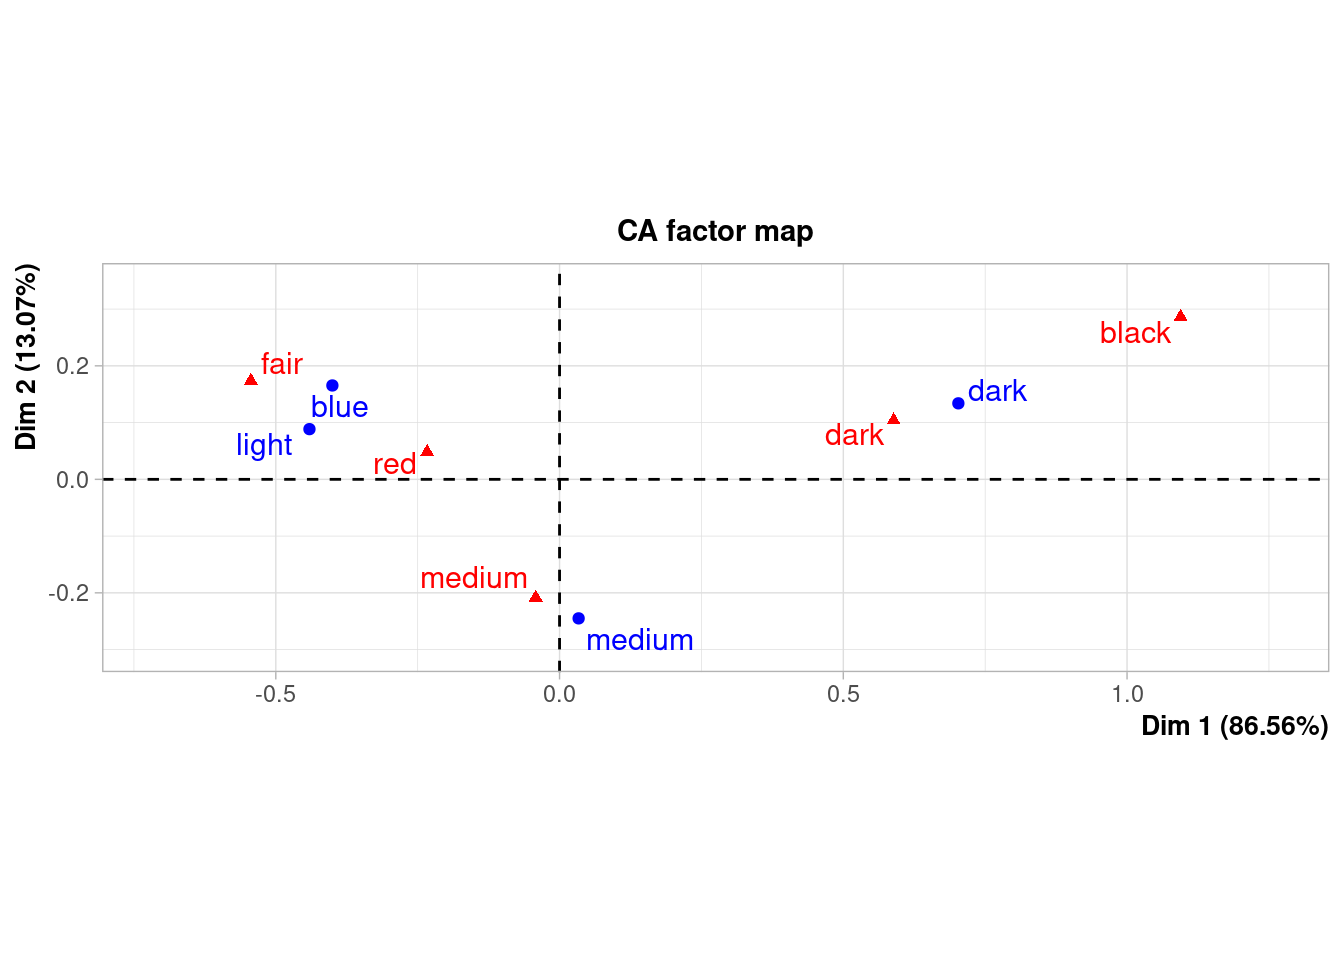
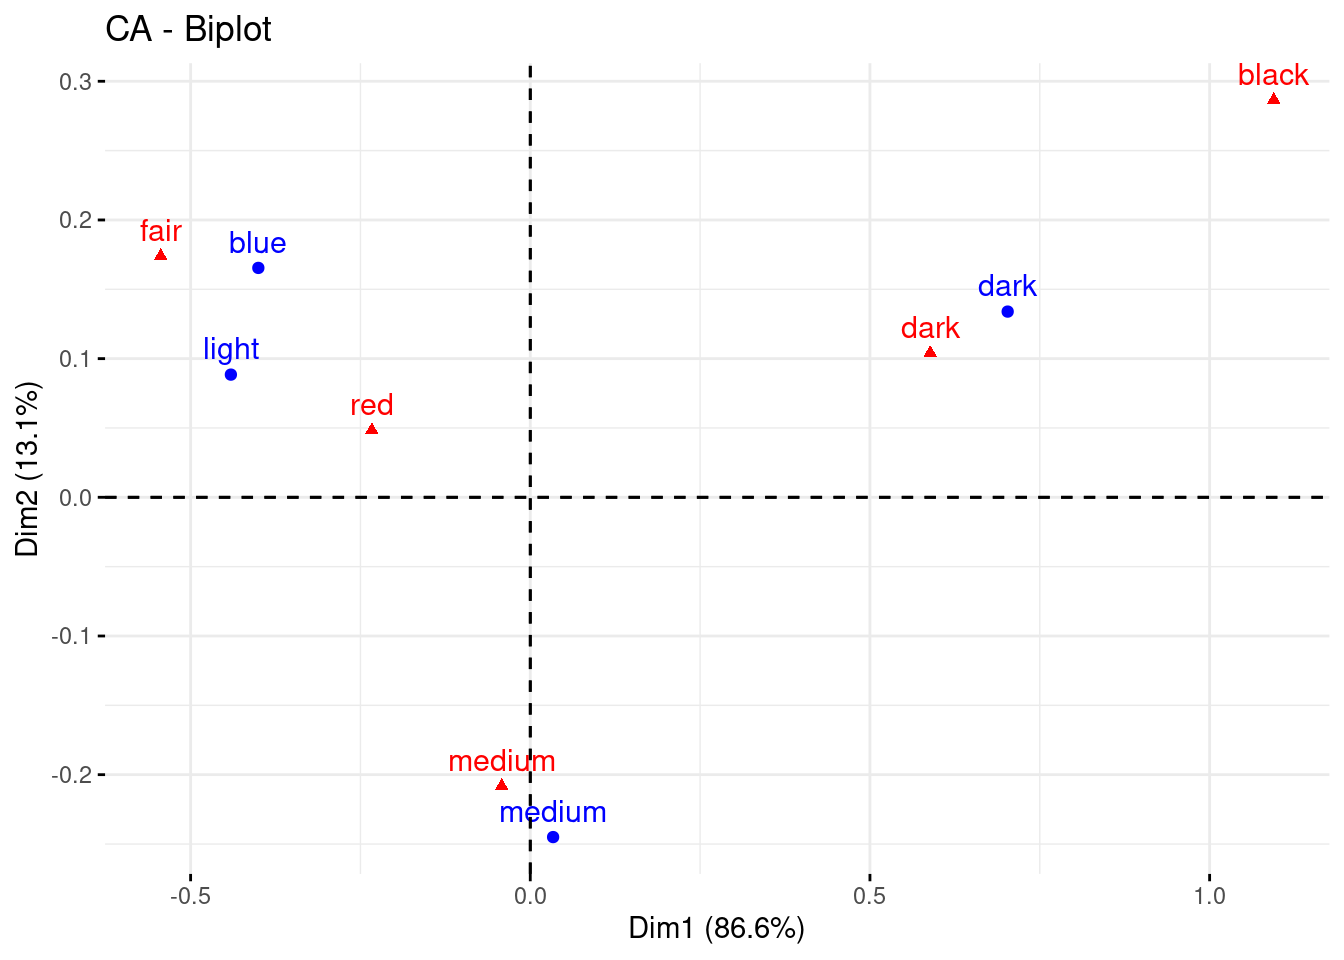
subir imagen

diff --git a/content/post/2020-10-21-nmf-ejemplillo/index.html b/content/post/2020-10-21-nmf-ejemplillo/index.html
@@ -37,27 +37,27 @@ a</code></pre>
 <pre class="r"><code>w &lt;-  res@fit@W
 h &lt;-  res@fit@H</code></pre>
 <pre class="r"><code>w </code></pre>
-<pre><code>##             [,1]       [,2]
-## blue   310.26776  23.582447
-## light  717.81051   2.959867
-## medium 481.12000 456.844871
-## dark    37.89063 783.673294</code></pre>
+<pre><code>##              [,1]        [,2]
+## blue     50.72778 301.8719197
+## light    47.60578 700.7685444
+## medium  646.81555 448.6993202
+## dark   1061.71640   0.8208889</code></pre>
 <pre class="r"><code>h</code></pre>
-<pre><code>##           fair        red    medium      dark       black
-## [1,] 0.8856602 0.14302714 0.9115746 0.2504273 0.003967138
-## [2,] 0.0669304 0.05108225 0.5735425 0.7920433 0.088285040</code></pre>
+<pre><code>##            fair        red    medium      dark        black
+## [1,] 0.08031272 0.04269796 0.4551752 0.5933899 6.530647e-02
+## [2,] 0.90202534 0.14382054 0.9052440 0.2195516 2.220446e-16</code></pre>
 <p>Reconstruimos a</p>
 <pre class="r"><code>w %*% h</code></pre>
 <pre><code>##             fair       red   medium      dark     black
 ## blue   276.37021  45.58136 296.3578  96.37782  3.312852
 ## light  635.93433 102.81758 656.0355 182.10365  3.108965
 ## medium 456.68567  92.14988 700.5967 482.32648 42.241237
-## dark    86.00979  45.45118 484.0100 630.19204 69.336946</code></pre>
+## dark    86.00979  45.45118 484.0100 630.19204 69.336945</code></pre>
 <p>Y si comparamos con a</p>
 <pre class="r"><code>a - (w %*% h)</code></pre>
 <pre><code>##              fair       red    medium       dark       black
 ## blue     49.62979 -7.581356 -55.35776  13.622177  -0.3128523
-## light    52.06567 13.182418 -72.03547   5.896346   0.8910349
+## light    52.06567 13.182418 -72.03547   5.896346   0.8910348
 ## medium -113.68567 -8.149881 208.40327 -70.326485 -16.2412371
 ## dark     11.99021  2.548819 -81.01004  50.807961  15.6630545</code></pre>
 <p>Bueno, la reconstrucción no es perfecta, pero bueno, no está tan mal.</p>
@@ -65,16 +65,16 @@ h &lt;-  res@fit@H</code></pre>
 <p>Normalicemos</p>
 <pre class="r"><code>w_hat &lt;- w / rowSums(w)
 w_hat</code></pre>
-<pre><code>##              [,1]        [,2]
-## blue   0.92936219 0.070637808
-## light  0.99589347 0.004106532
-## medium 0.51294032 0.487059679
-## dark   0.04612013 0.953879875</code></pre>
+<pre><code>##              [,1]         [,2]
+## blue   0.14386792 0.8561320849
+## light  0.06361226 0.9363877442
+## medium 0.59042151 0.4095784859
+## dark   0.99922743 0.0007725742</code></pre>
 <pre class="r"><code>h_hat &lt;-  h / rowSums(h)
 h_hat</code></pre>
-<pre><code>##            fair        red    medium      dark       black
-## [1,] 0.40355303 0.06517063 0.4153610 0.1141077 0.001807635
-## [2,] 0.04257975 0.03249748 0.3648759 0.5038817 0.056165131</code></pre>
+<pre><code>##            fair        red    medium      dark        black
+## [1,] 0.06493158 0.03452063 0.3680020 0.4797465 5.279926e-02
+## [2,] 0.41555704 0.06625716 0.4170398 0.1011460 1.022945e-16</code></pre>
 <p>Así, el primer “menú” está compuesto por los “productos” fair, red, etc, en proporción a como indica la primera fila de h_hat. Y el individuo “blue” prefiere el primer menú en casi un 0.9 de probabilidad vs un alrededor de 0.1 de preferencia del menú 2. En un PCA diríamos que esos son los “loadings”.</p>
 <p>Las filas de <em>W</em> a veces se asocian con arquetipos o individuos promedio. Los individuos “blue” tienen esos pesos los dos factores latentes.</p>
 <p>En este caso dónde tenemos color de ojos (fila) y color del pelo (columnas), vemos que en las dos distribuciones multinomiales que hay en sendas filas de <code>h_hat</code> (si, eso es lo que son, dos distribuciones multinomiales), la probabilidad de tener el pelo negro es bastante pequeña (tiene que ver con la tabla de contingencia original, hay muy pocos con el pelo negro).
@@ -90,21 +90,22 @@ Pero vemos que hay un arquetipo, (el de os ojos oscuros) para el cual el peso qu
 <p>Y podemos hacer <span class="math inline">\(A \approx D \cdot W \cdot H\)</span></p>
 <pre class="r"><code>d %*% w_hat %*% h_hat</code></pre>
 <pre><code>##           fair       red   medium     dark     black
-## [1,] 271.44325  45.13540 295.6687 101.6979  4.054783
-## [2,] 635.27167 102.75760 655.9428 182.8192  3.208752
-## [3,] 404.00632  87.38166 693.2291 539.2089 50.174006
-## [4,]  77.88466  44.71574 482.8737 638.9654 70.560476</code></pre>
+## [1,] 262.15134  44.29435 294.3691 111.7312  5.454014
+## [2,] 621.33968 101.49656 653.9943 197.8628  5.306714
+## [3,] 369.95036  84.29912 688.4661 575.9821 55.302354
+## [4,]  85.74124  45.42687 483.9725 630.4820 69.377386</code></pre>
 <p>Que se parece bastante a <code>w %*% h</code> , o podríamos usar otra <em>D</em>, en este caso para obtener qué matriz se obtendría para 10 casos de cada fila.</p>
 <pre class="r"><code>d &lt;-  diag(c(10,10, 10, 10))
 d %*% w_hat %*% h_hat</code></pre>
 <pre><code>##           fair       red   medium     dark      black
-## [1,] 3.7805467 0.6286267 4.117948 1.416405 0.05647329
-## [2,] 4.0207068 0.6503646 4.151537 1.157083 0.02030856
-## [3,] 2.2773750 0.4925685 3.907718 3.039509 0.28282980
-## [4,] 0.5922788 0.3400437 3.672043 4.859053 0.53658157</code></pre>
+## [1,] 3.6511328 0.6169129 4.099849 1.556144 0.07596119
+## [2,] 3.9325296 0.6423833 4.139204 1.252296 0.03358680
+## [3,] 2.0854022 0.4751923 3.880869 3.246799 0.31173819
+## [4,] 0.6520246 0.3454515 3.680399 4.794540 0.52758468</code></pre>
 <p>y bueno, la verdad es que me pregunto si esto se parece o no a un análisis de correspondencias. Veamos</p>
 <pre class="r"><code>library(FactoMineR)
-res_ca &lt;-  CA (a, ncp = 2)</code></pre>
+res_ca &lt;-  CA (a, ncp = 2, graph = FALSE)
+factoextra::fviz_ca(res_ca)</code></pre>
 <p><img src="index_files/figure-html/unnamed-chunk-12-1.png" width="672" />
 Lo primero que hay que darse cuenta es que ambas técnicas no son del todo comparables, el correspondencias busca encontrar dimensiones que expliquen la mayor cantidad de inercia (distancia Chi-cuadrado) y es parecido al PCA en el sentido de que la primera dimensión es la que más explica, etc.. De hecho el CA, diagonaliza 2 matrices derivadas de la tabla de contingencia, una la de los perfiles filas y otra la de los perfiles columna. Y las pinta junta de acuerdo a algún teorema baricéntrico que tuve que demostrar en algún examen allá por los lejanos 90’s.</p>
 <p>Pero en realidad si nos fijamos en las coordenadas de las filas en el CA</p>
@@ -118,18 +119,18 @@ Lo primero que hay que darse cuenta es que ambas técnicas no son del todo compa
 <pre class="r"><code>coordenadas_filas &lt;-  cbind(res_ca$row$coord, w_hat)
 colnames(coordenadas_filas)[3:4] &lt;-  paste0(&quot;nmf_&quot;, 1:2)
 coordenadas_filas</code></pre>
-<pre><code>##              Dim 1       Dim 2      nmf_1       nmf_2
-## blue   -0.40029985  0.16541100 0.92936219 0.070637808
-## light  -0.44070764  0.08846303 0.99589347 0.004106532
-## medium  0.03361434 -0.24500190 0.51294032 0.487059679
-## dark    0.70273880  0.13391383 0.04612013 0.953879875</code></pre>
+<pre><code>##              Dim 1       Dim 2      nmf_1        nmf_2
+## blue   -0.40029985  0.16541100 0.14386792 0.8561320849
+## light  -0.44070764  0.08846303 0.06361226 0.9363877442
+## medium  0.03361434 -0.24500190 0.59042151 0.4095784859
+## dark    0.70273880  0.13391383 0.99922743 0.0007725742</code></pre>
 <p>y</p>
 <pre class="r"><code>cor(coordenadas_filas)</code></pre>
 <pre><code>##             Dim 1       Dim 2      nmf_1      nmf_2
-## Dim 1  1.00000000 -0.05155554 -0.9954663  0.9954663
-## Dim 2 -0.05155554  1.00000000  0.1346751 -0.1346751
-## nmf_1 -0.99546631  0.13467507  1.0000000 -1.0000000
-## nmf_2  0.99546631 -0.13467507 -1.0000000  1.0000000</code></pre>
+## Dim 1  1.00000000 -0.05155554  0.9886649 -0.9886649
+## Dim 2 -0.05155554  1.00000000 -0.1845396  0.1845396
+## nmf_1  0.98866486 -0.18453964  1.0000000 -1.0000000
+## nmf_2 -0.98866486  0.18453964 -1.0000000  1.0000000</code></pre>
 <p>Resultado coherente, ¿no? . En este ejemplo de juguete una única dimensión del correspondencias explica el 86,5% de la inercia.</p>
 <p>Cosas buenas del nmf.</p>
 <ul>
@@ -143,14 +144,14 @@ coordenadas_filas</code></pre>
 res_nmf2 &lt;-  nnmf(a, k = 2, loss = &quot;mkl&quot;)</code></pre>
 <pre class="r"><code>res_nmf2$W</code></pre>
 <pre><code>##             [,1]      [,2]
-## blue   14.386372  1.462810
-## light  33.253858  1.372782
-## medium 22.546984 18.651868
-## dark    2.200178 30.616138</code></pre>
+## blue   15.595043  1.541350
+## light  36.167872  1.446489
+## medium 23.462304 19.653319
+## dark    0.566294 32.259972</code></pre>
 <pre class="r"><code>res_nmf2$H</code></pre>
-<pre><code>##           fair      red   medium    dark        black
-## [1,] 19.064210 3.039632 19.13224  4.6402 1.498187e-15
-## [2,]  1.439278 1.266112 14.43408 20.2502 2.264719e+00</code></pre>
+<pre><code>##           fair      red   medium      dark        black
+## [1,] 17.488501 2.788398 17.55090  4.256675 1.315282e-15
+## [2,]  2.359151 1.359956 14.69533 19.460076 2.149318e+00</code></pre>
 <p>Nuevas filas</p>
 <pre class="r"><code>b &lt;- matrix( data = c(20, 30, 40, 0,20, 10, 10, 30,10, 90), nrow=2, byrow = TRUE)
 colnames(b) &lt;-  colnames(a)
@@ -162,16 +163,16 @@ b</code></pre>
 <p>Y tiene un método predict</p>
 <pre class="r"><code>predict(res_nmf2, newdata = b, which = &quot;W&quot;)</code></pre>
 <pre><code>## $coefficients
-##               [,1]     [,2]
-## tipo_n1 1.48676649 1.053924
-## tipo_n2 0.07050392 3.701118
+##             [,1]     [,2]
+## tipo_n1 1.557655 1.110511
+## tipo_n2 0.000000 3.747767
 ## 
 ## $n.iteration
-## [1] 37
+## [1] 33
 ## 
 ## $error
 ##          MSE          MKL target.error 
-##   1337.45331     26.65946     26.65946 
+##   1313.09418     26.71148     26.71148 
 ## 
 ## $options
 ## $options$method
